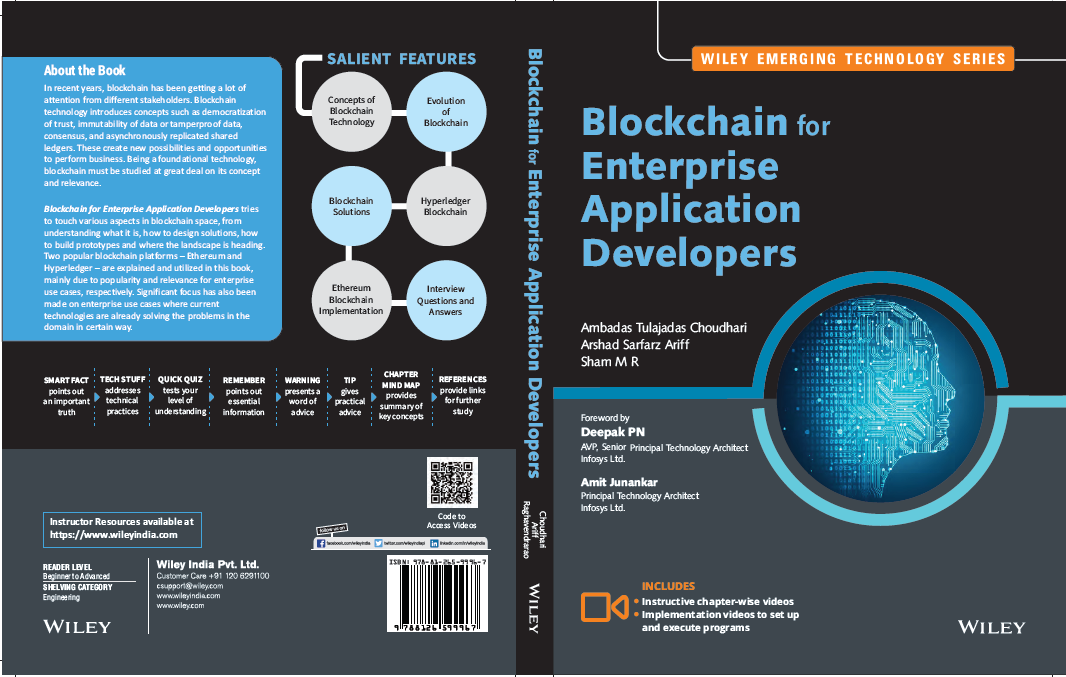
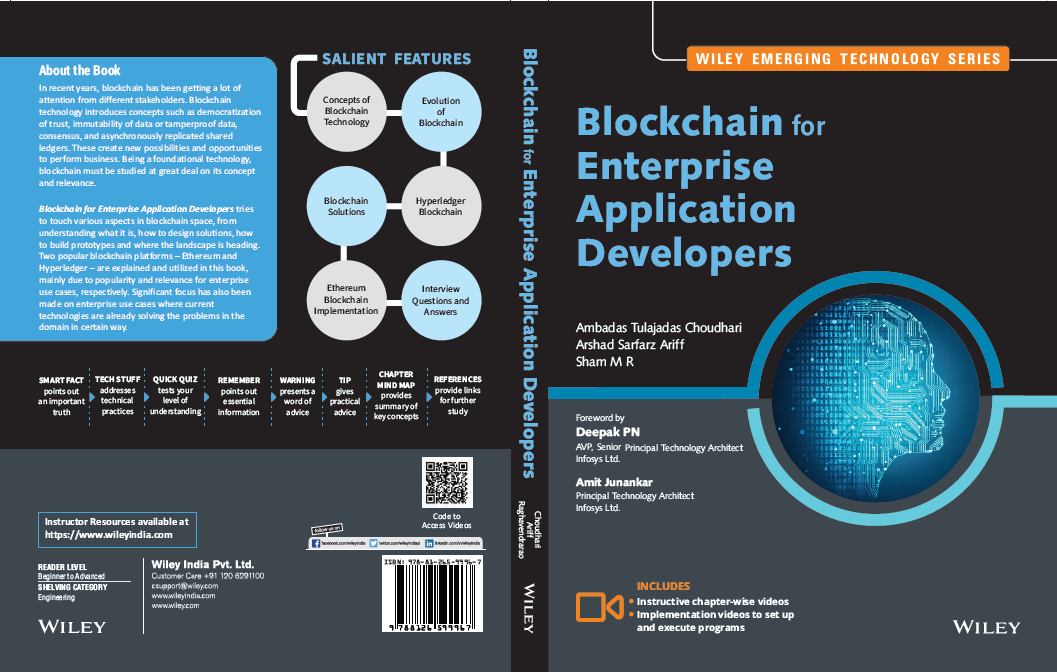
updated image

diff --git a/index.html b/index.html
@@ -88,7 +88,7 @@ By Sam Dunn
 <body>
 	<div class="leftcurtain"><img src="images/frontcurtain.jpg"/></div>
 	<div class="rightcurtain"><img src="images/frontcurtain.jpg"/></div>
-	<img class="logo" src="images/book.png" />
+	<img class="logo" src="images/book.png" height=640/>
 	<a class="rope" href="#">
 		<img src="images/rope.png"/>
 	</a>
